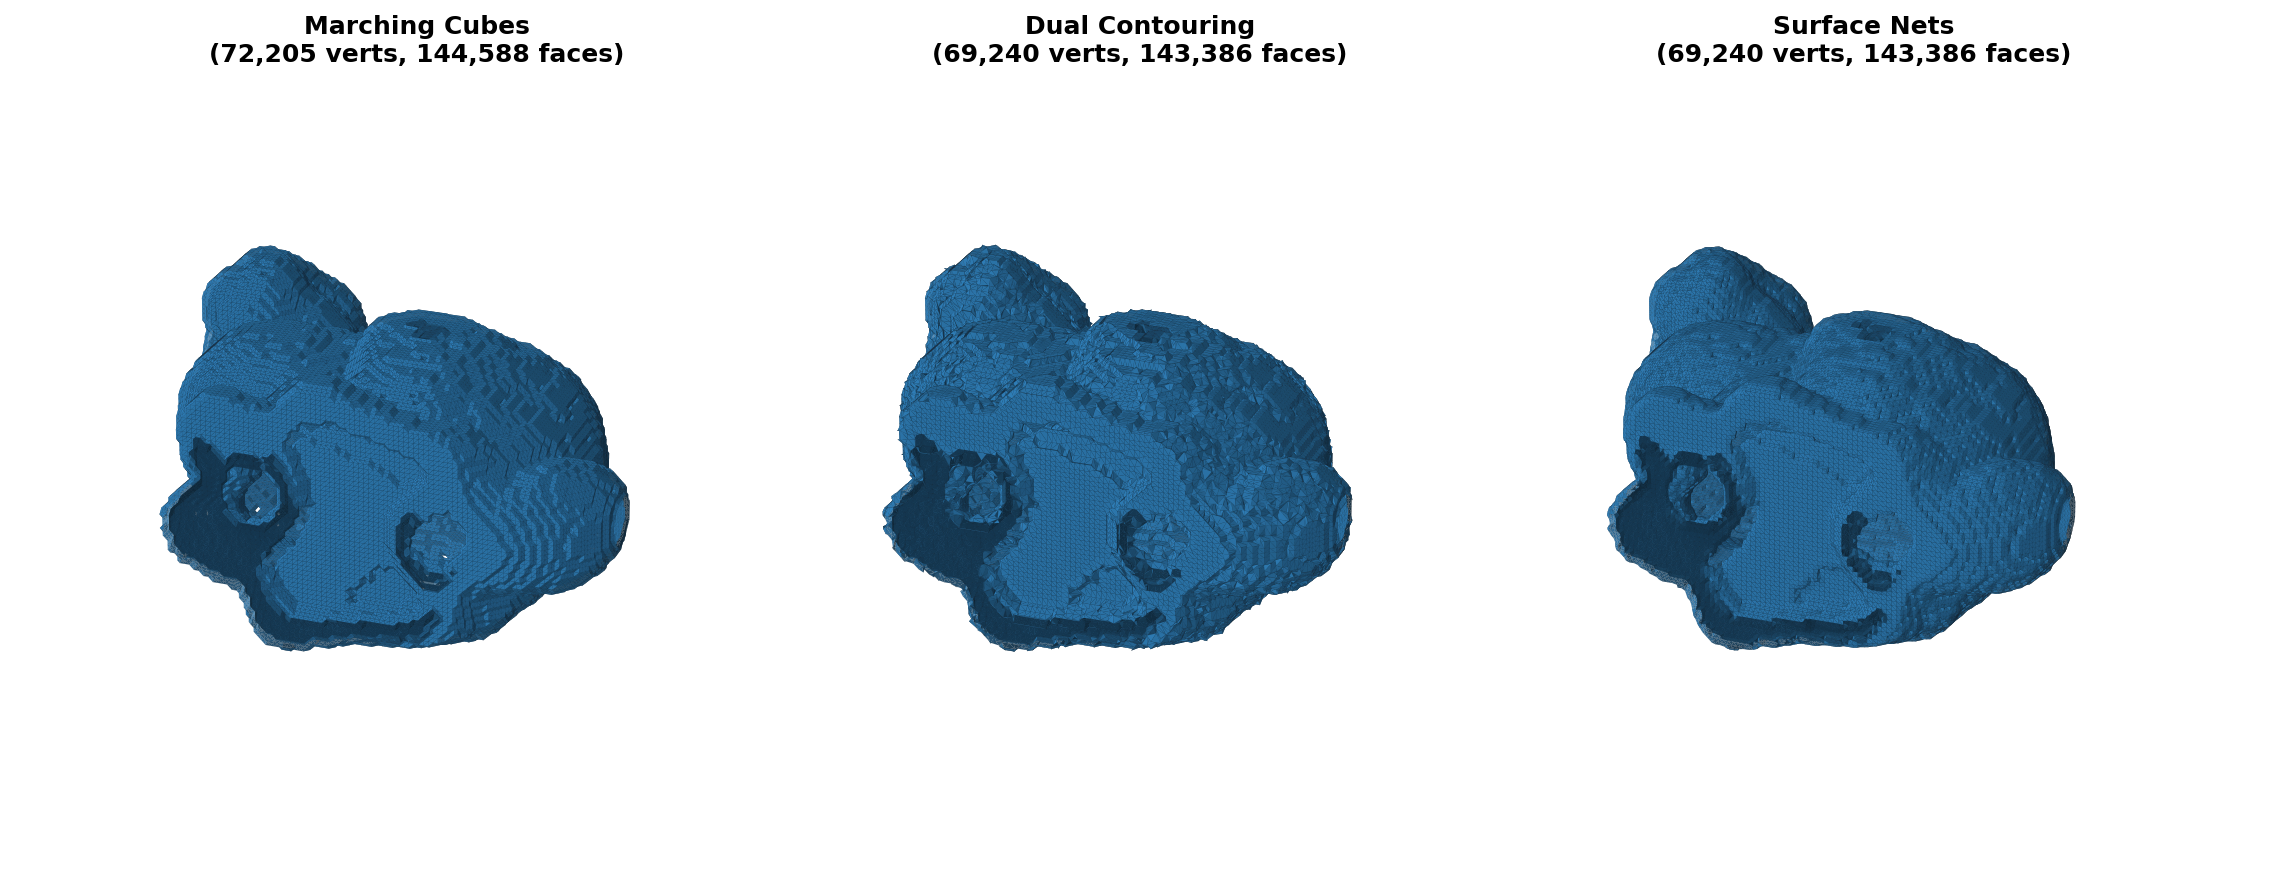
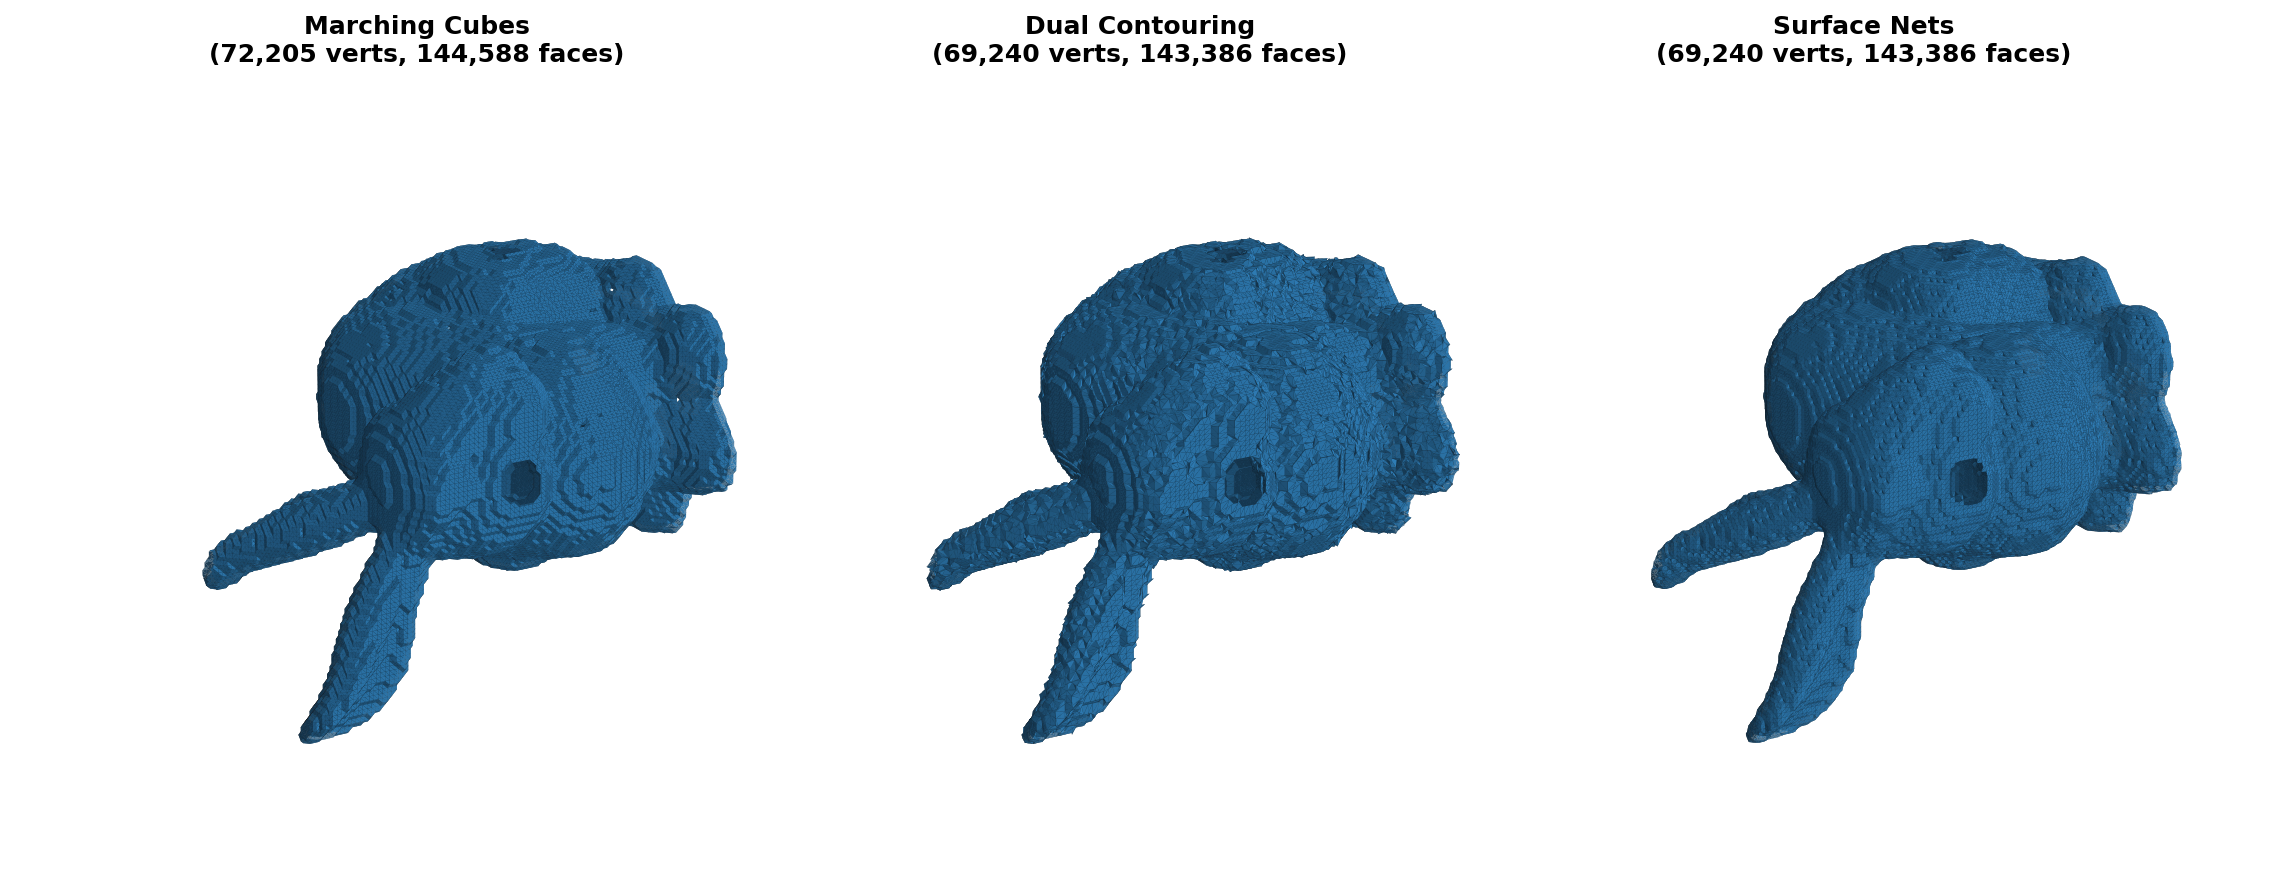
fix: bunny side profile view, detailed GPU benchmark with model info
Change extraction comparison to classic bunny side profile (elev=20,
azim=150). Expand GPU benchmark table with grid sizes, voxel counts,
output mesh sizes, and notes on small-grid overhead and VRAM limits.
Measured on RTX 5080: 61x at 256^3, 68x at 500^3.

Changed region(s): [[0.3737, 0.2724, 0.6539, 0.8475], [0.0623, 0.2724, 0.3425, 0.8475], [0.6851, 0.2724, 0.9654, 0.8475]]

diff --git a/scripts/generate_doc_images.py b/scripts/generate_doc_images.py
@@ -767,7 +767,7 @@ def gen_extraction_comparison() -> None:
             v[:, 0], v[:, 1], v[:, 2], triangles=f, color="#3182BD", edgecolor="#1a1a1a", linewidth=0.02, alpha=0.95
         )
         ax.set_title(f"{name}\n({v.shape[0]:,} verts, {f.shape[0]:,} faces)", fontsize=12, fontweight="bold")
-        ax.view_init(elev=25, azim=-70)
+        ax.view_init(elev=20, azim=150)  # classic bunny side profile
         ax.set_axis_off()
         ax.set_xlim(*xlim)
         ax.set_ylim(*ylim)
